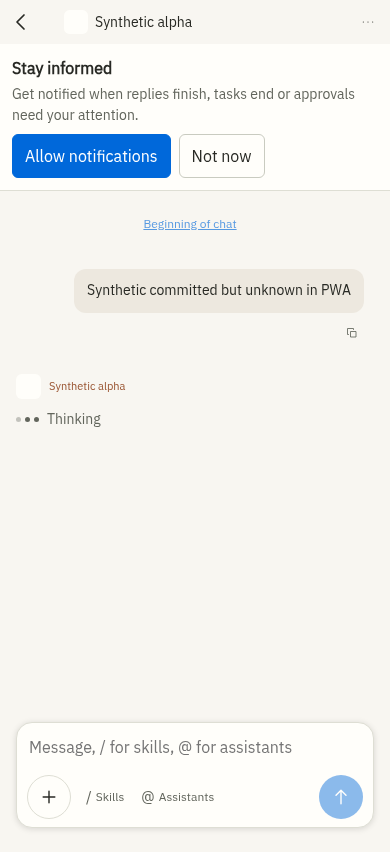
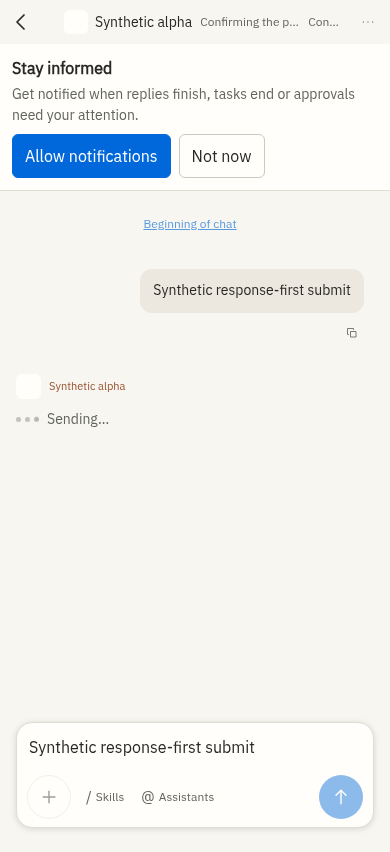
Check send receipts only after an unknown submit result

diff --git a/web/src/components/ui.js b/web/src/components/ui.js
@@ -1114,7 +1114,7 @@ export function mountApp(root, client, {surface = 'main'} = {}) {
   const resumeSends=()=>{if(document.visibilityState!=='hidden')confirmations.resume();};
   const pageHidden=()=>{rememberChatPosition();confirmations.suspend();};
   const persistChat=()=>{if(document.visibilityState==='hidden')pageHidden();else resumeSends();};
-  const offline=()=>confirmations.suspend();
+  const offline=()=>confirmations.suspend({offline:true});
   for(const name of ['focus','pageshow','online'])window.addEventListener(name,resumeSends);
   window.addEventListener('pagehide',pageHidden);window.addEventListener('offline',offline);document.addEventListener('visibilitychange',persistChat);
   return () => {

diff --git a/docs/ui-events.md b/docs/ui-events.md
@@ -409,19 +409,22 @@ The response repeats that identity plus `runtime_id`, `owner_id` and `state`:
 means an absent steer targets a turn that no longer accepts guidance. Reads do
 not start or interrupt Agent work.
 
-The client ends each HTTP wait after ten seconds and keeps the fixed payload and
-request ID while acceptance is unknown. Five receipt reads use bounded backoff;
-a matching persisted message or query unlocks the next send even if the HTTP
-receipt is still held. Once those reads are exhausted, foreground and online
-recovery signals trigger one more bounded, read-only receipt check in the captured
-scope. Event bursts coalesce; each attempt shares one in-flight query across
-polling, automatic checks and explicit recovery. Repeated signals have a one-second
-cooldown and never restart background polling. An unconfirmed result, timeout or
-unavailable read retains the unknown attempt; 401/403 pauses automatic checks.
-Hidden/pagehide and offline transitions cancel waits and synchronously revoke
-query ownership, so late results cannot affect a newer check. A later visible,
-foreground or online signal can resume the original attempt. Disposal cancels
-all waits. Automatic recovery never transmits a message.
+The normal submit path waits only for its business response: success confirms
+immediately, and an explicit rejection retains the draft and reports the error.
+No receipt query runs while that POST is pending, including on foreground/online
+signals. A matching persisted SSE message may also confirm the same request
+without waiting for the POST; Agent execution completion is not required.
+
+A timeout, network failure or another inconclusive submit error makes the result
+unknown and enables receipt checks. Each HTTP wait is bounded to ten seconds.
+Five reads then use bounded backoff for the fixed payload and request ID. If they
+are exhausted, foreground/online signals trigger one further read-only check.
+Each unknown attempt has one active check; bursts coalesce with a one-second
+cooldown and never restart periodic polling. Unconfirmed results or unavailable
+reads retain the unknown attempt; 401/403 pauses automatic checks. Backgrounding
+pauses receipt checks but lets a pending POST return its definitive response.
+Offline/disposal cancels waits and revokes ownership before abort, so late results
+cannot affect a newer check. Automatic recovery never transmits a message.
 
 If unresolved, a localized Check and retry action queries
 first and, only after an unconfirmed result, retries the same ID/payload in the
